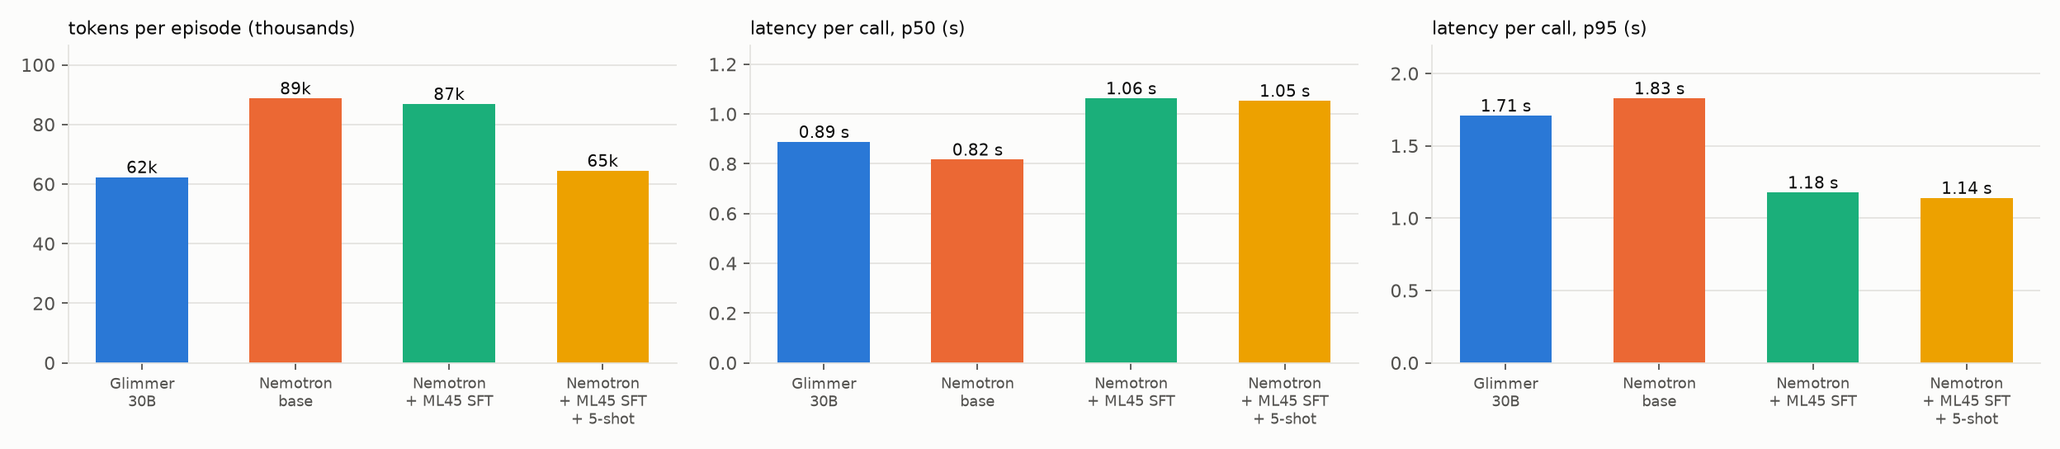
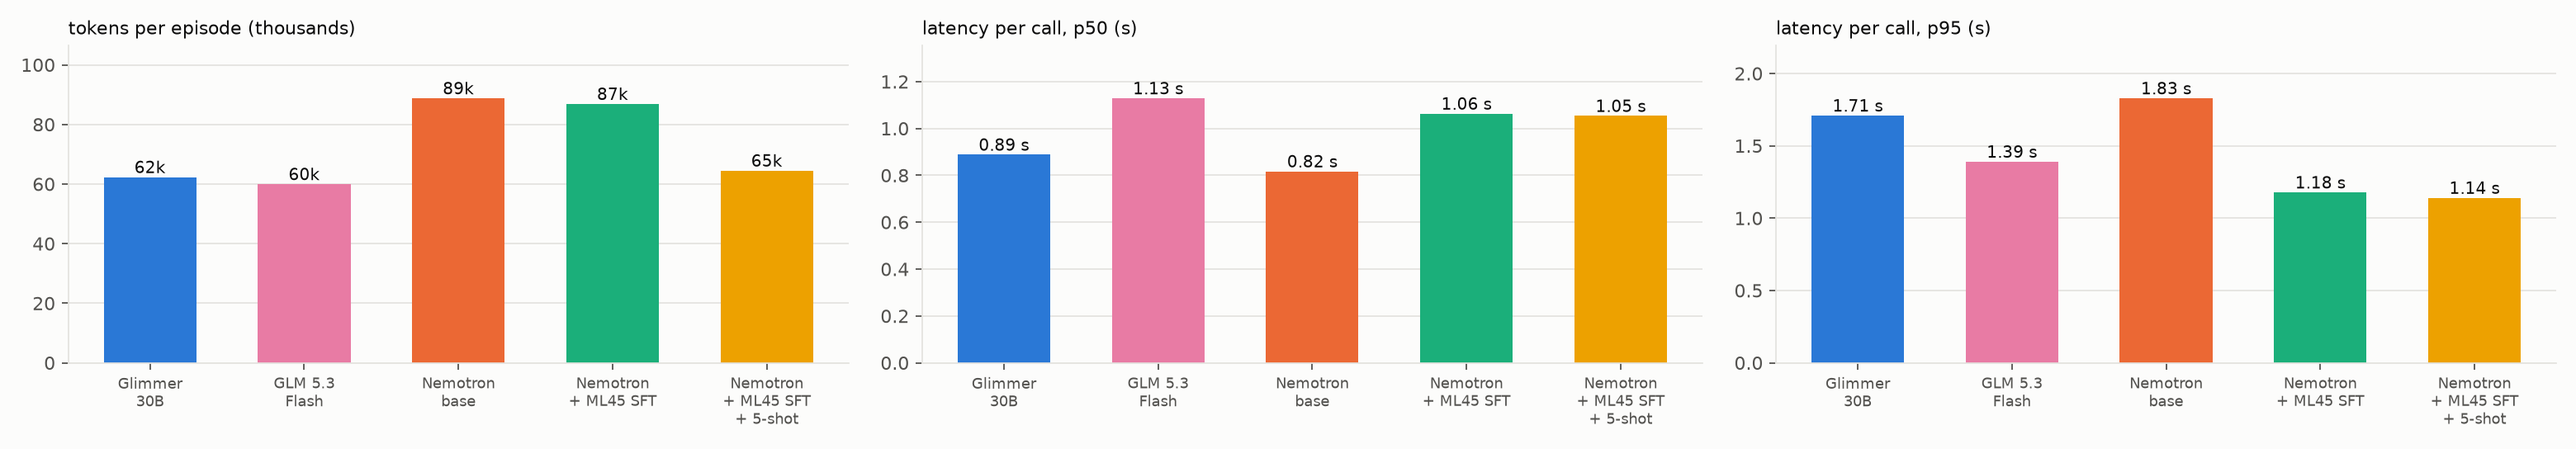
GLM 5.3 Flash baseline (serverless): 0/100, progress 0.103; reasoning_content fallback for this model only; five-model charts with fixed per-model colors

diff --git a/ml45bench/plots.py b/ml45bench/plots.py
@@ -19,7 +19,10 @@ from .report import bootstrap_mean, load_run, summarize  # noqa: E402
 from .run import MODELS  # noqa: E402
 
 OUT = Path(__file__).resolve().parent.parent / "docs" / "figures"
-SERIES = ["#2a78d6", "#eb6834", "#1baf7a", "#eda100"]  # fixed categorical order
+SERIES = ["#2a78d6", "#eb6834", "#1baf7a", "#eda100", "#e87ba4"]  # fixed categorical order
+# color follows the model, not its position in a chart
+COLOR = {"glimmer-30b": SERIES[0], "nemotron-super-vl": SERIES[1], "nemotron-ml45-sft": SERIES[2],
+         "nemotron-ml45-5shot": SERIES[3], "glm-5p3-flash": SERIES[4]}
 SURFACE, INK, INK2, GRID = "#fcfcfb", "#0b0b0b", "#52514e", "#e4e3df"
 
 plt.rcParams.update({
@@ -29,7 +32,7 @@ plt.rcParams.update({
 })
 
 
-SHORT = {"glimmer-30b": "Glimmer 30B", "nemotron-super-vl": "Nemotron base",
+SHORT = {"glimmer-30b": "Glimmer 30B", "glm-5p3-flash": "GLM 5.3 Flash", "nemotron-super-vl": "Nemotron base",
          "nemotron-ml45-sft": "Nemotron + ML45 SFT", "nemotron-ml45-5shot": "Nemotron + ML45 SFT + 5-shot"}
 
 
@@ -57,7 +60,7 @@ def progress_by_task(runs) -> Path:
         cis = [bootstrap_mean(g) for g in groups]
         ys = [i + (k - (len(runs) - 1) / 2) * h for i in range(len(rows))]
         err = [[m - c[0] for m, c in zip(means, cis)], [c[1] - m for m, c in zip(means, cis)]]
-        ax.barh(ys, means, height=h * 0.9, color=SERIES[k], label=_short(name), zorder=2)
+        ax.barh(ys, means, height=h * 0.9, color=COLOR.get(name, INK2), label=_short(name), zorder=2)
         ax.errorbar(means, ys, xerr=err, fmt="none", ecolor=INK2, elinewidth=1, capsize=2, zorder=3)
     ax.set_yticks(range(len(rows)), rows)
     ax.invert_yaxis()
@@ -79,8 +82,8 @@ def success(runs) -> Path:
     fig, ax = plt.subplots(figsize=(8, 0.9 + 0.55 * len(runs)))
     for k, (n, s) in enumerate(sums):
         lo, hi = s["success_ci95"]
-        ax.plot([lo * 100, hi * 100], [k, k], color=SERIES[k], lw=2, solid_capstyle="round", zorder=2)
-        ax.plot([s["success_rate"] * 100], [k], "o", ms=8, color=SERIES[k], mec=SURFACE, mew=2, zorder=3)
+        ax.plot([lo * 100, hi * 100], [k, k], color=COLOR.get(n, INK2), lw=2, solid_capstyle="round", zorder=2)
+        ax.plot([s["success_rate"] * 100], [k], "o", ms=8, color=COLOR.get(n, INK2), mec=SURFACE, mew=2, zorder=3)
         ax.text(hi * 100 + 0.4, k, f"{s['successes']}/{s['n']}  (95% CI {lo:.1%}–{hi:.1%})", va="center", fontsize=9)
     ax.set_yticks(range(len(sums)), [_short(n) for n, _ in sums])
     ax.invert_yaxis()
@@ -105,10 +108,10 @@ def efficiency(runs) -> Path:
     for ax, (title, f, fmt) in zip(axes, panels):
         vals = [f(s) for _, s in sums]
         xs = range(len(sums))
-        ax.bar(xs, vals, width=0.6, color=SERIES[:len(sums)], zorder=2)
+        ax.bar(xs, vals, width=0.6, color=[COLOR.get(n, INK2) for n, _ in sums], zorder=2)
         for x, v in zip(xs, vals):
             ax.text(x, v, fmt.format(v), ha="center", va="bottom", fontsize=9, color=INK)
-        ax.set_xticks(list(xs), [_short(n).replace(" + ", "\n+ ").replace("Nemotron base", "Nemotron\nbase").replace("Glimmer 30B", "Glimmer\n30B") for n, _ in sums],
+        ax.set_xticks(list(xs), [_short(n).replace(" + ", "\n+ ").replace("Nemotron base", "Nemotron\nbase").replace("Glimmer 30B", "Glimmer\n30B").replace("GLM 5.3 Flash", "GLM 5.3\nFlash") for n, _ in sums],
                       fontsize=8)
         ax.set_title(title, loc="left", fontsize=10)
         ax.yaxis.grid(True, color=GRID, zorder=0)

diff --git a/ml45bench/run.py b/ml45bench/run.py
@@ -44,8 +44,10 @@ def _git_commit() -> str:
 
 
 def model_address(cfg: dict, acct: str) -> str:
-    dep = f"accounts/{acct}/deployments/{cfg['deployment']}"
     target = cfg.get("serve_model", cfg["base_model"]).replace("{account}", acct)
+    if cfg.get("serverless"):
+        return target
+    dep = f"accounts/{acct}/deployments/{cfg['deployment']}"
     return f"{target}#{dep}"
 
 
@@ -139,10 +141,20 @@ class Runner:
         return res
 
 
+def reply_text(cfg: dict, msg: dict) -> str:
+    """The reply is `content`. A model may name one fallback field in models.json (`answer_fallback`),
+    used only when `content` is empty: GLM 5.3 Flash cannot disable thinking with an image on Fireworks,
+    and then its grammar-constrained answer is returned as `reasoning_content`."""
+    text = msg.get("content") or ""
+    if not text and cfg.get("answer_fallback"):
+        text = msg.get(cfg["answer_fallback"]) or ""
+    return text
+
+
 def _call_model(addr: str, cfg: dict, msgs: list[dict]):
     from . import fireworks
     resp, dt, attempts = fireworks.chat(_request(addr, cfg, msgs))
-    text = resp["choices"][0]["message"].get("content") or ""
+    text = reply_text(cfg, resp["choices"][0]["message"])
     acts, valid = spec.parse_answer(text)
     return text, acts, valid, dt, attempts, resp
 

diff --git a/ml45bench/deploy.py b/ml45bench/deploy.py
@@ -48,7 +48,7 @@ def probe(key):
     """Send one real benchmark request (first frame of the first held-out episode)."""
     from . import sim, spec
     from .manifest import load
-    from .run import _request
+    from .run import _request, reply_text
     e = load()["episodes"][0]
     ep = sim.Episode(e["task_index"], e["seed"])
     jpg, ee, closed = ep.observe()
@@ -57,7 +57,8 @@ def probe(key):
     t = time.time()
     resp, dt, att = fw.chat(body, retries=40)
     msg = resp["choices"][0]["message"]
-    print(json.dumps({"reply": msg.get("content"), "parsed": spec.parse_answer(msg.get("content") or ""),
+    text = reply_text(cfg, msg)
+    print(json.dumps({"reply": text, "parsed": spec.parse_answer(text),
                       "reasoning_chars": len(msg.get("reasoning_content") or ""), "usage": resp.get("usage"),
                       "latency_s": round(dt, 3), "attempts": att, "total_wait_s": round(time.time() - t, 1)}, indent=1))
 

diff --git a/README.md b/README.md
@@ -45,15 +45,16 @@ Replicability:
 | model | success (95% Wilson CI) | progress (95% CI) | invalid replies | tokens / episode | latency / call p50, p95 |
 |---|---|---|---|---|---|
 | Muse Glimmer 30B (Meta), base | 0/100 (0–3.7%) | 0.104 (0.085–0.124) | 0% | 62k | 0.89 s, 1.71 s |
+| GLM 5.3 Flash, base (serverless) | 0/100 (0–3.7%) | 0.103 (0.084–0.124) | 0% | 60k | 1.13 s, 1.39 s |
 | Nemotron 3.5 Super VL 120B A12B, base | 0/100 (0–3.7%) | 0.097 (0.078–0.117) | 0% | 89k | 0.82 s, 1.83 s |
 | Nemotron + LoRA SFT on ML45 train (45 tasks) | 3/100 (1.0–8.5%) | 0.139 (0.109–0.173) | 0% | 87k | 1.06 s, 1.18 s |
 | **Nemotron + SFT + 5-shot** (5 demos per test task) | **36/100 (27.3–45.8%)** | **0.386 (0.318–0.457)** | 0% | 65k | 1.05 s, 1.14 s |
 
 Per task (successes out of 20): 5-shot solves bin-picking 1, box-close 10, door-lock 9, door-unlock 12, hand-insert 4.
-The ML45 SFT model solves door-lock 2 and door-unlock 1; the base models solve none.
+The ML45 SFT model solves door-lock 2 and door-unlock 1; the base models (Glimmer, GLM 5.3 Flash, Nemotron) solve none.
 
 Paired comparisons on the same 100 episodes (exact McNemar, paired bootstrap 95% CI):
-- 5-shot vs Nemotron base: +36 points (CI +27 to +45), 36 episodes only 5-shot solves, 0 the other way, p < 0.001. Same against Glimmer.
+- 5-shot vs Nemotron base: +36 points (CI +27 to +45), 36 episodes only 5-shot solves, 0 the other way, p < 0.001. Same against Glimmer and GLM 5.3 Flash.
 - 5-shot vs ML45 SFT: +33 points (CI +23 to +43), discordant 35 / 2, p < 0.001.
 - ML45 SFT vs Nemotron base: +3 points, discordant 3 / 0, p = 0.25 (not significant on success). Progress is significantly higher: +0.042 (CI +0.017 to +0.072), better on 70 of 100 episodes.
 - 5 eval scenes start within 1 cm of a 5-shot training demo (the tasks randomize over a small area; eval scenes are themselves 0.5–1.4 cm apart). Excluding them, 5-shot scores 33/95 = 34.7% (CI 25.9–44.7%).
@@ -85,6 +86,7 @@ Full-length videos (20 fps, every step), per model and side by side:
 Notes:
 - Every run replays exactly from its logs (`REPLAY MATCH`).
 - Training on Fireworks: ML45 SFT is LoRA rank 64, 1 epoch, 17,336 rows (45 tasks × 20 demos, every 4th frame), $28.35. 5-shot warm-starts from it: rank 64, 3 epochs, 1,018 rows (5 test tasks × 5 demos, every 2nd frame), $5.05. The datasets are read from a GCS bucket (`ml45bench/sft.py`, `ml45bench/build_sft_parquet.py`).
+- GLM 5.3 Flash: GLM-5.3 itself does not accept images on Fireworks, so the image-capable Flash model is used. Every way to turn its thinking off returns HTTP 400 ("Invalid image or video input"), so it runs with `reasoning_effort: "low"` (like Glimmer). The grammar still limits the output to exactly 3 actions (~24 tokens), but Fireworks returns that output as `reasoning_content` with `content` empty, so for this model only the answer is read from `reasoning_content` when `content` is empty (`answer_fallback` in `models.json`). Serverless, about $1 for the 100 episodes.
 - Qwen3.8 and Gemma 4 are configured in `models.json` but were not run.
 - Figures: `uv run --locked --with matplotlib python -m ml45bench.plots runs/<run> ...`. Videos (re-simulated from the logs, no API): `uv run --locked --with matplotlib python -m ml45bench.video --episodes box-close-v3:1004 door-lock-v3:1012 --runs runs/glimmer-30b runs/nemotron-super-vl runs/nemotron-ml45-5shot`.
 
